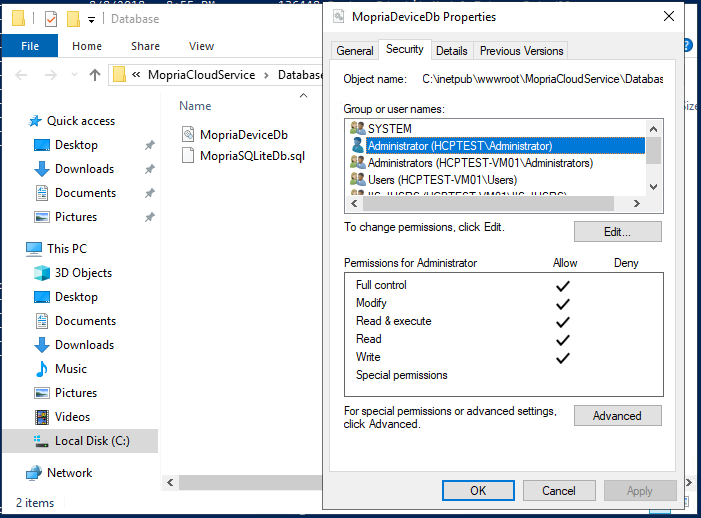
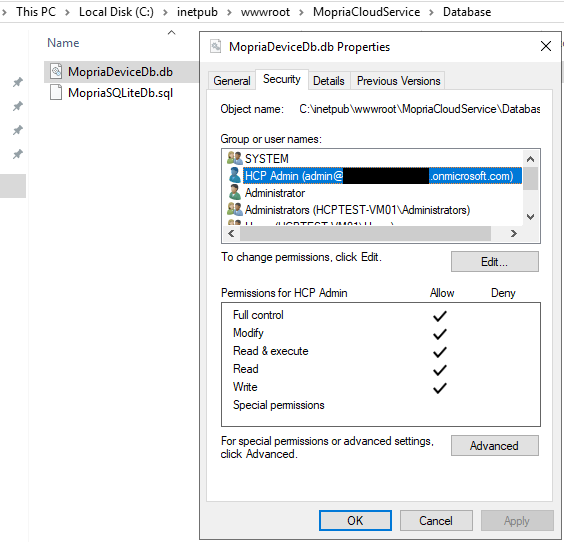
Incremental update

diff --git a/WindowsServerDocs/administration/hybrid-cloud-print/hybrid-cloud-print-deploy-new.md b/WindowsServerDocs/administration/hybrid-cloud-print/hybrid-cloud-print-deploy-new.md
@@ -46,7 +46,7 @@ There are a number of subscriptions, services, and computers you'll need to acqu
 
 - Public facing domain name
 
-  You can use the domain name created for you by Azure, or purchase your own domain name.
+  You can use the domain name created for you by Azure (*domainname*.onmicrosoft.com), or purchase your own domain name. See [Add your custom domain name using the Azure Active Directory portal](https://docs.microsoft.com/en-us/azure/active-directory/fundamentals/add-custom-domain).
 
 ## Deployment steps
 
@@ -65,7 +65,9 @@ This guide outlines five (5) installation steps:
 
 ### Step 2 - Register and configure Azure web applications
 
-1. Install Application Proxy on the Connector Server. See [Tutorial: Add an on-premises application for remote access through Application Proxy in Azure Active Directory](https://docs.microsoft.com/en-us/azure/active-directory/manage-apps/application-proxy-add-on-premises-application)
+1. Install Application Proxy on the Connector Server
+    - For installation instruction, see [Tutorial: Add an on-premises application for remote access through Application Proxy in Azure Active Directory](https://docs.microsoft.com/en-us/azure/active-directory/manage-apps/application-proxy-add-on-premises-application)
+    - A dedicated connector group is recommended if the organization has complex network topology. See [Publish applications on separate networks and locations using connector groups](https://docs.microsoft.com/en-us/azure/active-directory/manage-apps/application-proxy-connector-groups)
 
 2. Login to Azure portal to register web apps
     - Under Azure Active Directory, go to **App registrations** > **New registration**
@@ -295,7 +297,8 @@ This guide outlines five (5) installation steps:
 
         `sqlite3.exe MopriaDeviceDb.db ".read MopriaSQLiteDb.sql"`
 
-    - From File Explorer, open up the MopriaDeviceDb.db file properties to add Users/Groups which are allowed to publish to Mopria database in the Security tab
+    - From File Explorer, open up the MopriaDeviceDb.db file properties to add users or groups which are allowed to publish to Mopria database in the Security tab. The users or groups must exist in on-premises Active Directory, and synchronized with Azure AD.
+    - If the solution is deployed to a non-routable domain (e.g. *mydomain*.local), the Azure AD domain (e.g. *domainname*.onmicrosoft.com, or one purchased from third-party vendor) needs to be added to as a UPN suffix to on-premises Active Directory. This is so the exact same user who will be publishing printer (e.g. admin@*domainname*.onmicrosoft.com) can be added in the security setting of the database file. See [Prepare a non-routable domain for directory synchronization](https://docs.microsoft.com/en-us/office365/enterprise/prepare-a-non-routable-domain-for-directory-synchronization)
 
     ![Print Server Mopria Registry Keys](../media/hybrid-cloud-print/PrintServer-SQLiteDB.png)
 
@@ -343,7 +346,7 @@ This guide outlines five (5) installation steps:
 2. Share the printer through the Printer Properties UI
 3. Select the desired set of users to grant access
 4. Save the changes and close out the printer properties window
-5. From a Windows 10 Fall Creator Update machine, open an elevated Windows PowerShell command prompt
+5. From a Windows 10 Fall Creator Update or later machine, open an elevated Windows PowerShell command prompt
    1. Run the following commands
       - `find-module -Name "PublishCloudPrinter"` to confirm that the machine can reach the PowerShell Gallery (PSGallery)
       - `install-module -Name "PublishCloudPrinter"`
@@ -356,7 +359,7 @@ This guide outlines five (5) installation steps:
         - Model = Printer model
         - OrgLocation = A JSON string specifying the printer location,
             e.g.:
-            `{"attrs": [{"category":"country", "vs":"USA", "depth":0}, {"category":"organization", "vs":"Microsoft", "depth":1}, {"category":"site", "vs":"Redmond, WA", "depth":2}, {"category":"building", "vs":"Building 1", "depth":3}, {"category":"floor\_number", "vn":1, "depth":4}, {"category":"room\_name", "vs":"1111", "depth":5}]}`
+            `{"attrs": [{"category":"country", "vs":"USA", "depth":0}, {"category":"organization", "vs":"Microsoft", "depth":1}, {"category":"site", "vs":"Redmond, WA", "depth":2}, {"category":"building", "vs":"Building 1", "depth":3}, {"category":"floor_number", "vn":1, "depth":4}, {"category":"room_name", "vs":"1111", "depth":5}]}`
         - Sddl = SDDL string representing permissions for the printer. This can be obtained by modifying the Printer Properties Security tab appropriately and then running the following command in a command prompt:
             `(Get-Printer PrinterName -full).PermissionSDDL`
             e.g. "G:DUD:(A;OICI;FA;;;WD)"
@@ -373,7 +376,9 @@ This guide outlines five (5) installation steps:
         **Publish-CloudPrinter** PowerShell command syntax: <br>
         Publish-CloudPrinter -Printer \<string\> -Manufacturer \<string\> -Model \<string\> -OrgLocation \<string\> -Sddl \<string\> -DiscoveryEndpoint \<string\> -PrintServerEndpoint \<string\> -AzureClientId \<string\> -AzureTenantGuid \<string\> [-DiscoveryResourceId \<string\>] <br>
         Sample command:
-        `publish-cloudprinter -Printer EcpPrintTest -Manufacturer Microsoft -Model FilePrinterEcp -OrgLocation '{"attrs": [{"category":"country", "vs":"USA", "depth":0}, {"category":"organization", "vs":"MyCompany", "depth":1}, {"category":"site", "vs":"MyCity, State", "depth":2}, {"category":"building", "vs":"Building 1", "depth":3}, {"category":"floor\_number", "vn":1, "depth":4}, {"category":"room\_name", "vs":"1111", "depth":5}]}' -Sddl "O:BAG:DUD:(A;OICI;FA;;;WD)" -DiscoveryEndpoint https://<services-machine-endpoint>/mcs -PrintServerEndpoint https://<services-machine-endpoint>/ecp -AzureClientId <Native Web App ID> -AzureTenantGuid <Azure AD Directory ID> -DiscoveryResourceId <Proxied Mopria Discovery Cloud Service App ID>`
+        `publish-cloudprinter -Printer EcpPrintTest -Manufacturer Microsoft -Model FilePrinterEcp -OrgLocation '{"attrs": [{"category":"country", "vs":"USA", "depth":0}, {"category":"organization", "vs":"MyCompany", "depth":1}, {"category":"site", "vs":"MyCity, State", "depth":2}, {"category":"building", "vs":"Building 1", "depth":3}, {"category":"floor_name", "vn":1, "depth":4}, {"category":"room_name", "vs":"1111", "depth":5}]}' -Sddl "O:BAG:DUD:(A;OICI;FA;;;WD)" -DiscoveryEndpoint https://<services-machine-endpoint>/mcs -PrintServerEndpoint https://<services-machine-endpoint>/ecp -AzureClientId <Native Web App ID> -AzureTenantGuid <Azure AD Directory ID> -DiscoveryResourceId <Proxied Mopria Discovery Cloud Service App ID>`
+
+    2. 
 
 
 ## Verifing the deployment
